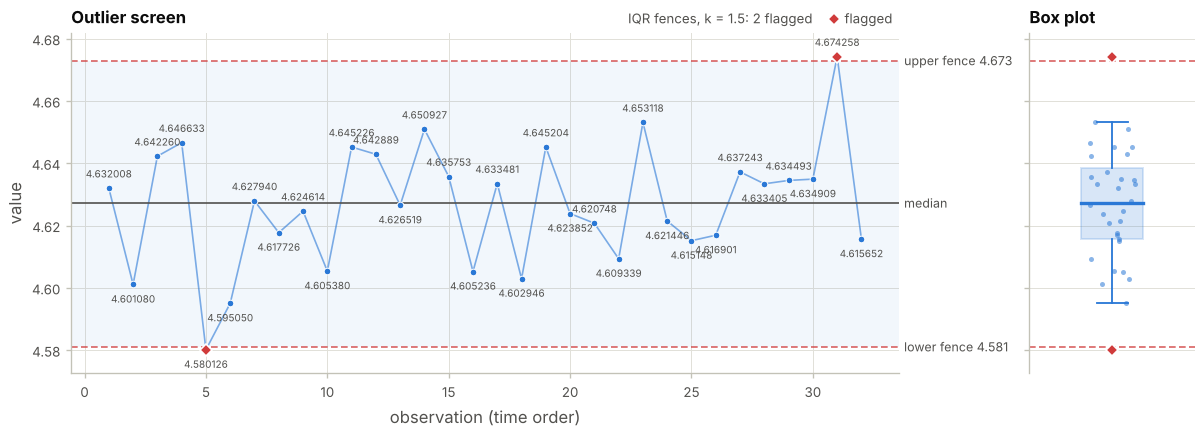
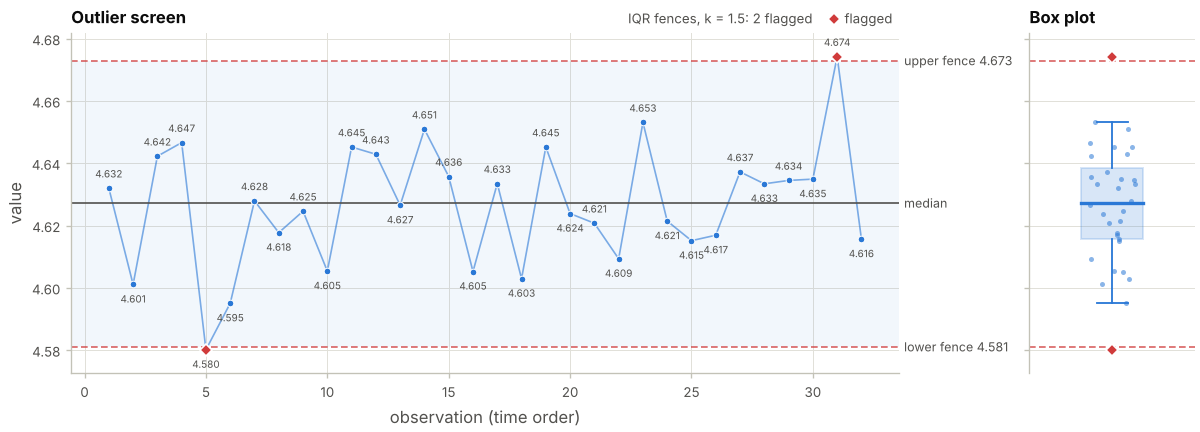
Plots: raw-value labels with as many decimals as the data have, at most three

diff --git a/src/uccap/plot.py b/src/uccap/plot.py
@@ -92,8 +92,8 @@ def _top_legend(ax, note=None):
 def _value_labels(ax, t, y, mask, decimals=None):
     """Write each value next to its point (the raw data): above a local peak, below a local dip."""
     ts, ys = t[mask], y[mask]
-    if decimals is None:  # enough decimals to show the data as recorded, at most 6
-        decimals = next((d for d in range(7) if np.allclose(ys, np.round(ys, d), rtol=0, atol=1e-9)), 6)
+    if decimals is None:  # as many decimals as the data have, at most 3
+        decimals = next((d for d in range(4) if np.allclose(ys, np.round(ys, d), rtol=0, atol=1e-9)), 3)
     for i, (ti, yi) in enumerate(zip(ts, ys)):
         nb = [ys[j] for j in (i - 1, i + 1) if 0 <= j < ys.size]
         up = not nb or yi >= np.mean(nb)
@@ -190,7 +190,7 @@ def _series(study):
 def individuals_chart(study, ax=None, show_data=False):
     """Individuals (I) chart: values in time order with mean and 3-sigma-within limits.
 
-    ``show_data=True`` writes each value next to its point.
+    ``show_data=True`` writes each value next to its point (at most 3 decimals).
     """
     ax = _ax(ax, (6.4, 3.0))
     raw, excluded = _series(study)
@@ -224,7 +224,7 @@ def individuals_chart(study, ax=None, show_data=False):
 def moving_range_chart(study, ax=None, show_data=False):
     """Moving range (MR) chart; ranges never bridge missing or excluded points.
 
-    ``show_data=True`` writes each moving range next to its point.
+    ``show_data=True`` writes each moving range next to its point (at most 3 decimals).
     """
     ax = _ax(ax, (6.4, 3.0))
     raw, excluded = _series(study)
@@ -325,7 +325,7 @@ def outlier_chart(study, ax=None, show_data=False):
     the skewness-adjusted boxplot otherwise, coefficient ``outlier_k``); flagged points
     are marked, excluded points drawn hollow. Grubbs' test has no fixed fences, so only
     the flagged points are shown. The fence note and the legend sit above the plot area;
-    ``show_data=True`` writes each value next to its point.
+    ``show_data=True`` writes each value next to its point (at most 3 decimals).
     """
     ax = _ax(ax, (6.4, 3.0))
     raw, excluded = _series(study)
